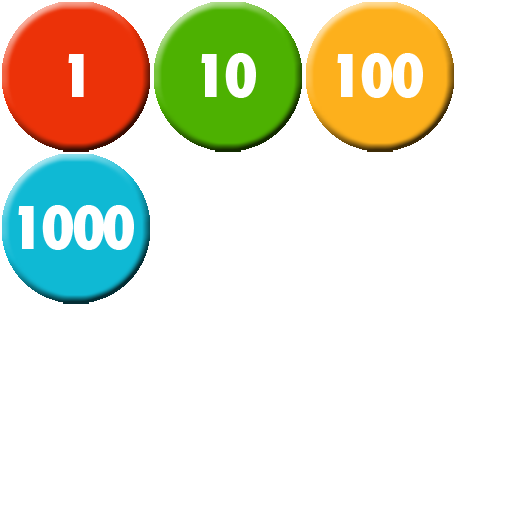
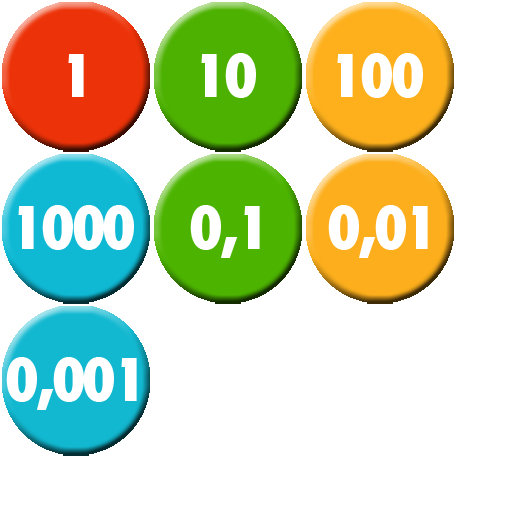
Add files via upload

Changed region(s): [[0.2812, 0.2812, 0.9062, 0.5938], [0.0, 0.5938, 0.3125, 0.9062]]

diff --git a/data.js b/data.js
@@ -1,1 +1,1 @@
-{"project": [null,null,[[0,false,true,true,true,false,false,false,false,false],[1,true,false,false,false,false,false,false,false,false],[2,false,true,true,true,true,true,true,true,false],[3,true,false,false,false,false,false,false,false,false],[4,false,true,true,false,true,true,true,true,true],[5,false,true,true,true,true,true,true,true,false],[6,false,true,true,true,false,false,false,false,false]],[["t0",5,false,[644382659856269],1,0,null,[["Default",5,false,1,0,false,911871144314915,[["images/pin-sheet0.png",28463,1,1,150,150,1,0.5,0.5,[],[-0.3533329963684082,-0.3533329963684082,0,-0.4933333396911621,0.3533329963684082,-0.3533329963684082,0.4933329820632935,0,0.3533329963684082,0.3533329963684082,0,0.5,-0.3533329963684082,0.3533329963684082,-0.4933333396911621,0],0],["images/pin-sheet0.png",28463,153,1,150,150,1,0.5,0.5,[],[-0.3533329963684082,-0.3533329963684082,0,-0.4933333396911621,0.3533329963684082,-0.3533329963684082,0.4933329820632935,0,0.3533329963684082,0.3533329963684082,0,0.5,-0.3533329963684082,0.3533329963684082,-0.4933333396911621,0],0],["images/pin-sheet0.png",28463,305,1,150,150,1,0.5,0.5,[],[-0.3533329963684082,-0.3533329963684082,0,-0.4933333396911621,0.3533329963684082,-0.3533329963684082,0.4933329820632935,0,0.3533329963684082,0.3533329963684082,0,0.5,-0.3533329963684082,0.3533329963684082,-0.4933333396911621,0],0],["images/pin-sheet0.png",28463,1,153,150,150,1,0.5,0.5,[],[-0.3533329963684082,-0.3533329963684082,0,-0.4933333396911621,0.3533329963684082,-0.3533329963684082,0.4933329820632935,0,0.3533329963684082,0.3533329963684082,0,0.5,-0.3533329963684082,0.3533329963684082,-0.4933333396911621,0],0]]]],[["DragDrop",7,578860099782064]],false,false,861116747323266,[],null],["t1",1,false,[],0,0,null,null,[],false,false,292087745290532,[],null,[]],["t2",5,false,[],0,0,null,[["Default",5,false,1,0,false,428190339307738,[["images/base-sheet0.png",184,0,0,250,21,1,0.5,0.523809552192688,[],[],0]]]],[],false,false,741821680033760,[],null],["t3",5,false,[632192248744076],0,0,null,[["Default",5,false,1,0,false,644652496890301,[["images/pin-sheet0.png",28463,1,1,150,150,1,0.5,0.5,[],[-0.3533329963684082,-0.3533329963684082,0,-0.4933333396911621,0.3533329963684082,-0.3533329963684082,0.4933329820632935,0,0.3533329963684082,0.3533329963684082,0,0.5,-0.3533329963684082,0.3533329963684082,-0.4933333396911621,0],0],["images/pin-sheet0.png",28463,153,1,150,150,1,0.5,0.5,[],[-0.3533329963684082,-0.3533329963684082,0,-0.4933333396911621,0.3533329963684082,-0.3533329963684082,0.4933329820632935,0,0.3533329963684082,0.3533329963684082,0,0.5,-0.3533329963684082,0.3533329963684082,-0.4933333396911621,0],0],["images/pin-sheet0.png",28463,305,1,150,150,1,0.5,0.5,[],[-0.3533329963684082,-0.3533329963684082,0,-0.4933333396911621,0.3533329963684082,-0.3533329963684082,0.4933329820632935,0,0.3533329963684082,0.3533329963684082,0,0.5,-0.3533329963684082,0.3533329963684082,-0.4933333396911621,0],0],["images/pin-sheet0.png",28463,1,153,150,150,1,0.5,0.5,[],[-0.3533329963684082,-0.3533329963684082,0,-0.4933333396911621,0.3533329963684082,-0.3533329963684082,0.4933329820632935,0,0.3533329963684082,0.3533329963684082,0,0.5,-0.3533329963684082,0.3533329963684082,-0.4933333396911621,0],0]]]],[],false,false,182497139481256,[],null],["t4",3,false,[],0,0,null,null,[],false,false,698995464938124,[],null,[1]],["t5",4,false,[],0,0,["images/particles.png",226,0],null,[],false,false,483021725840676,[],null],["t6",5,false,[],0,0,null,[["Default",5,false,1,0,false,848638669185510,[["images/sprite-sheet0.png",116,0,0,94,238,1,1.297872304916382,0.5084033608436585,[],[],1]]]],[],false,false,383891707760628,[],null],["t7",6,false,[],0,0,null,null,[],false,false,428799213916837,[],null],["t8",0,false,[],0,0,null,null,[],false,false,669017938407102,[],null],["t9",2,false,[],1,0,null,null,[["DragDrop",7,897159645757813]],false,false,883067694999877,[],null],["t10",5,false,[],0,0,null,[["Default",5,false,1,0,false,693317849428490,[["images/sprite2-sheet0.png",112,0,0,3,45,1,6,2.799999952316284,[],[],0]]]],[],false,false,427905328455323,[],null]],[],[["Layout 1",854,480,false,"Event sheet 1",222364562494749,[["Layer 0",0,578104952276455,true,[255,255,255],false,1,1,1,false,false,1,0,0,[[[233,731,0,128,128,0,0,1,0,0.5,0,0,[]],5,8,[],[],[20,360,1,300,15,100,0,0,0,0,0,0,-150,0,0,800,0,0,0.5]],[[423,80.31913757324219,0,63,860,0,1.570796370506287,1,1.297872304916382,0.5084033608436585,0,0,[]],6,9,[],[],[0,"Default",0,1]],[[427.5,474,0,875,21,0,0,1,0.5,0.523809552192688,0,0,[]],2,2,[],[],[0,"Default",0,1]],[[615,436,0,150,22,0,0,1,0,0,0,0,[]],7,10,[],[],["","","",1,1,0,0,0,1,""]],[[771,434,0,72,24,0,0,1,0,0,0,0,[]],8,11,[],[],[0,"OK","",1,1,1,"",0]],[[421.5,559.5,0,343,75,0,0,1,0.5,0.5,0,0,[]],9,12,[],[[0,1]],["Text",0,"bold 36pt Arial","rgb(0,0,0)",1,1,4,0,0]]],[]],["Layer 2",1,689472366814451,true,[255,255,255],true,1,1,1,false,false,1,0,0,[[[196,1159,0,3,390,0,0,1,6,2.799999952316284,0,0,[]],10,13,[],[],[0,"Default",0,1]],[[371,64,0,3,390,0,0,1,6,2.799999952316284,0,0,[]],10,14,[],[],[0,"Default",0,1]],[[380,245,0,3,390,0,0,1,6,2.799999952316284,0,0,[]],10,15,[],[],[0,"Default",0,1]],[[407,270,0,3,390,0,0,1,6,2.799999952316284,0,0,[]],10,16,[],[],[0,"Default",0,1]],[[363,148,0,3,390,0,0,1,6,2.799999952316284,0,0,[]],10,17,[],[],[0,"Default",0,1]],[[411,1162,0,3,390,0,0,1,6,2.799999952316284,0,0,[]],10,18,[],[],[0,"Default",0,1]],[[645,1160,0,3,390,0,0,1,6,2.799999952316284,0,0,[]],10,19,[],[],[0,"Default",0,1]]],[]],["Layer 1",2,750380209258880,true,[255,255,255],true,1,1,1,false,false,1,0,0,[[[87,586,0,150,150,0,0,1,0.5,0.5,0,0,[]],0,0,[[0]],[[0,1]],[0,"Default",0,1]],[[724,29,0,50.75431060791016,50.75431060791016,0,0,1,0.5,0.5,0,0,[]],3,3,[[0]],[],[0,"Default",0,1]],[[499,29,0,50.75431060791016,50.75431060791016,0,0,1,0.5,0.5,0,0,[]],3,4,[[1]],[],[0,"Default",1,1]],[[284,28,0,50.75431060791016,50.75431060791016,0,0,1,0.5,0.5,0,0,[]],3,5,[[2]],[],[0,"Default",2,1]],[[92,29,0,50.75431060791016,50.75431060791016,0,0,1,0.5,0.5,0,0,[]],3,6,[[3]],[],[0,"Default",3,1]]],[]]],[],[]]],[["Event sheet 1",[[1,"inc",0,75,false,false,480072342331899,false],[1,"py",0,100,false,false,281201246726940,false],[1,"px",0,400,false,false,111233718439676,false],[0,null,false,null,746187562910654,[[-1,8,null,1,false,false,false,579789453030757,false]],[[3,9,null,854187559882076,false]]],[0,null,false,null,305910840080740,[[1,10,null,1,false,false,false,884794183998346,false,[[9,49]]]],[[-1,11,null,782699677731181,false,[[4,0],[5,[0,1]],[0,[23,"px"]],[0,[23,"py"]]]],[0,12,null,748778087565367,false,[[0,[1,0.5]]]],[0,9,null,319523093840713,false],[0,13,null,147621369360549,false,[[0,[0,0]]]],[-1,14,null,405604923511658,false,[[11,"py"],[7,[4,[23,"py"],[23,"inc"]]]]]]],[0,null,false,null,305116728605061,[[1,10,null,1,false,false,false,858277674687009,false,[[9,50]]]],[[-1,11,null,738967561313364,false,[[4,0],[5,[0,1]],[0,[23,"px"]],[0,[23,"py"]]]],[0,12,null,585888803841106,false,[[0,[1,0.5]]]],[0,9,null,920925629175796,false],[0,13,null,889219640164376,false,[[0,[0,1]]]],[-1,14,null,807351918061901,false,[[11,"py"],[7,[4,[23,"py"],[23,"inc"]]]]]]],[0,null,false,null,342234349138724,[[1,10,null,1,false,false,false,785418455827291,false,[[9,51]]]],[[-1,11,null,722172501859807,false,[[4,0],[5,[0,1]],[0,[23,"px"]],[0,[23,"py"]]]],[0,12,null,470171881342534,false,[[0,[1,0.5]]]],[0,9,null,126541316919008,false],[0,13,null,263792452516429,false,[[0,[0,2]]]],[-1,14,null,902807435480102,false,[[11,"py"],[7,[4,[23,"py"],[23,"inc"]]]]]]],[0,null,false,null,953869717273976,[[1,10,null,1,false,false,false,852845537536902,false,[[9,52]]]],[[-1,11,null,430040566835191,false,[[4,0],[5,[0,1]],[0,[23,"px"]],[0,[23,"py"]]]],[0,12,null,657961935267857,false,[[0,[1,0.5]]]],[0,9,null,924313412568258,false],[0,13,null,172110008348962,false,[[0,[0,3]]]],[-1,14,null,262442932410086,false,[[11,"py"],[7,[4,[23,"py"],[23,"inc"]]]]]]],[0,null,false,null,195581380856521,[[0,15,"DragDrop",1,false,false,false,451384350168511,false]],[[-1,14,null,978796043954594,false,[[11,"px"],[7,[20,0,16,false,null]]]],[-1,14,null,959403749462215,false,[[11,"py"],[7,[4,[20,0,17,false,null],[23,"inc"]]]]]]],[0,null,false,null,585789080994055,[[1,10,null,1,false,false,false,961656640352232,false,[[9,27]]]],[[-1,18,null,971690694566959,false]]],[0,null,false,null,200520648004140,[[0,19,null,0,false,false,true,739482570705831,false,[[4,2]]]],[[0,20,null,755990501114015,false],[0,21,null,922579971799122,false,[[4,5],[5,[0,0]],[7,[0,0]]]]]],[0,null,false,null,413755957735950,[[4,22,null,1,false,false,false,152951193907745,false,[[4,3]]]],[[-1,11,null,460226112207825,false,[[4,0],[5,[0,1]],[0,[23,"px"]],[0,[23,"py"]]]],[0,12,null,678653355344040,false,[[0,[1,0.5]]]],[0,9,null,312313856179144,false],[0,13,null,395210593895914,false,[[0,[21,3,false,null,0]]]],[-1,14,null,239464276551210,false,[[11,"py"],[7,[4,[23,"py"],[23,"inc"]]]]]]],[0,null,false,null,907593584464129,[[8,23,null,1,false,false,false,802546425472956,false]],[[-1,11,null,755786716646057,false,[[4,9],[5,[0,0]],[0,[0,400]],[0,[0,350]]]],[9,24,null,712175506529974,false,[[7,[20,7,25,true,null]]]]]],[0,null,false,null,324737361356182,[[2,19,null,0,false,false,true,248713019684820,false,[[4,9]]]],[[9,26,null,363566885807936,false]]]]]],[],"media/",false,854,480,4,true,true,true,"1.0.0.0",true,false,4,0,20,false,true,1,true,"NumberPins",0,[]]}
+{"project": [null,"Layout 0",[[0,false,true,true,true,false,false,false,false,false],[1,true,false,false,false,false,false,false,false,false],[2,false,true,true,true,false,false,false,false,false],[3,false,true,true,true,true,true,true,true,false],[4,true,false,false,false,false,false,false,false,false],[5,false,true,true,false,true,true,true,true,true],[6,false,true,true,true,true,true,true,true,false]],[["t0",3,false,[644382659856269],1,0,null,[["Default",5,false,1,0,false,911871144314915,[["images/pin-sheet0.png",48471,1,1,150,150,1,0.5,0.5,[],[-0.3533329963684082,-0.3533329963684082,0,-0.4933333396911621,0.3533329963684082,-0.3533329963684082,0.4933329820632935,0,0.3533329963684082,0.3533329963684082,0,0.5,-0.3533329963684082,0.3533329963684082,-0.4933333396911621,0],0],["images/pin-sheet0.png",48471,153,1,150,150,1,0.5,0.5,[],[-0.3533329963684082,-0.3533329963684082,0,-0.4933333396911621,0.3533329963684082,-0.3533329963684082,0.4933329820632935,0,0.3533329963684082,0.3533329963684082,0,0.5,-0.3533329963684082,0.3533329963684082,-0.4933333396911621,0],0],["images/pin-sheet0.png",48471,305,1,150,150,1,0.5,0.5,[],[-0.3533329963684082,-0.3533329963684082,0,-0.4933333396911621,0.3533329963684082,-0.3533329963684082,0.4933329820632935,0,0.3533329963684082,0.3533329963684082,0,0.5,-0.3533329963684082,0.3533329963684082,-0.4933333396911621,0],0],["images/pin-sheet0.png",48471,1,153,150,150,1,0.5,0.5,[],[-0.3533329963684082,-0.3533329963684082,0,-0.4933333396911621,0.3533329963684082,-0.3533329963684082,0.4933329820632935,0,0.3533329963684082,0.3533329963684082,0,0.5,-0.3533329963684082,0.3533329963684082,-0.4933333396911621,0],0],["images/pin-sheet0.png",48471,153,153,150,150,1,0.5,0.5,[],[-0.3533329963684082,-0.3533329963684082,0,-0.4933333396911621,0.3533329963684082,-0.3533329963684082,0.4933329820632935,0,0.3533329963684082,0.3533329963684082,0,0.5,-0.3533329963684082,0.3533329963684082,-0.4933333396911621,0],0],["images/pin-sheet0.png",48471,305,153,150,150,1,0.5,0.5,[],[-0.3533329963684082,-0.3533329963684082,0,-0.4933333396911621,0.3533329963684082,-0.3533329963684082,0.4933329820632935,0,0.3533329963684082,0.3533329963684082,0,0.5,-0.3533329963684082,0.3533329963684082,-0.4933333396911621,0],0],["images/pin-sheet0.png",48471,1,305,150,150,1,0.5,0.5,[],[-0.3533329963684082,-0.3533329963684082,0,-0.4933333396911621,0.3533329963684082,-0.3533329963684082,0.4933329820632935,0,0.3533329963684082,0.3533329963684082,0,0.5,-0.3533329963684082,0.3533329963684082,-0.4933333396911621,0],0]]]],[["DragDrop",7,578860099782064]],false,false,861116747323266,[],null],["t1",1,false,[],0,0,null,null,[],false,false,292087745290532,[],null,[]],["t2",3,false,[],0,0,null,[["Default",5,false,1,0,false,428190339307738,[["images/base-sheet0.png",184,0,0,250,21,1,0.5,0.523809552192688,[],[],0]]]],[],false,false,741821680033760,[],null],["t3",3,false,[632192248744076],0,0,null,[["Default",5,false,1,0,false,644652496890301,[["images/pin-sheet0.png",48471,1,1,150,150,1,0.5,0.5,[],[-0.3533329963684082,-0.3533329963684082,0,-0.4933333396911621,0.3533329963684082,-0.3533329963684082,0.4933329820632935,0,0.3533329963684082,0.3533329963684082,0,0.5,-0.3533329963684082,0.3533329963684082,-0.4933333396911621,0],0],["images/pin-sheet0.png",48471,153,1,150,150,1,0.5,0.5,[],[-0.3533329963684082,-0.3533329963684082,0,-0.4933333396911621,0.3533329963684082,-0.3533329963684082,0.4933329820632935,0,0.3533329963684082,0.3533329963684082,0,0.5,-0.3533329963684082,0.3533329963684082,-0.4933333396911621,0],0],["images/pin-sheet0.png",48471,305,1,150,150,1,0.5,0.5,[],[-0.3533329963684082,-0.3533329963684082,0,-0.4933333396911621,0.3533329963684082,-0.3533329963684082,0.4933329820632935,0,0.3533329963684082,0.3533329963684082,0,0.5,-0.3533329963684082,0.3533329963684082,-0.4933333396911621,0],0],["images/pin-sheet0.png",48471,1,153,150,150,1,0.5,0.5,[],[-0.3533329963684082,-0.3533329963684082,0,-0.4933333396911621,0.3533329963684082,-0.3533329963684082,0.4933329820632935,0,0.3533329963684082,0.3533329963684082,0,0.5,-0.3533329963684082,0.3533329963684082,-0.4933333396911621,0],0],["images/pin-sheet0.png",48471,153,153,150,150,1,0.5,0.5,[],[-0.3533329963684082,-0.3533329963684082,0,-0.4933333396911621,0.3533329963684082,-0.3533329963684082,0.4933329820632935,0,0.3533329963684082,0.3533329963684082,0,0.5,-0.3533329963684082,0.3533329963684082,-0.4933333396911621,0],0],["images/pin-sheet0.png",48471,305,153,150,150,1,0.5,0.5,[],[-0.3533329963684082,-0.3533329963684082,0,-0.4933333396911621,0.3533329963684082,-0.3533329963684082,0.4933329820632935,0,0.3533329963684082,0.3533329963684082,0,0.5,-0.3533329963684082,0.3533329963684082,-0.4933333396911621,0],0],["images/pin-sheet0.png",48471,1,305,150,150,1,0.5,0.5,[],[-0.3533329963684082,-0.3533329963684082,0,-0.4933333396911621,0.3533329963684082,-0.3533329963684082,0.4933329820632935,0,0.3533329963684082,0.3533329963684082,0,0.5,-0.3533329963684082,0.3533329963684082,-0.4933333396911621,0],0]]]],[],false,false,182497139481256,[],null],["t4",4,false,[],0,0,null,null,[],false,false,698995464938124,[],null,[1]],["t5",5,false,[],0,0,["images/particles.png",226,0],null,[],false,false,483021725840676,[],null],["t6",3,false,[],0,0,null,[["Default",5,false,1,0,false,848638669185510,[["images/sprite-sheet0.png",116,0,0,94,238,1,1.297872304916382,0.5084033608436585,[],[],1]]]],[],false,false,383891707760628,[],null],["t7",2,false,[],0,0,null,null,[],false,false,428799213916837,[],null],["t8",0,false,[],0,0,null,null,[],false,false,669017938407102,[],null],["t9",6,false,[],1,0,null,null,[["DragDrop",7,897159645757813]],false,false,883067694999877,[],null],["t10",6,false,[],0,0,null,null,[],false,false,300781632412065,[],null],["t11",6,false,[],0,0,null,null,[],false,false,348532356729456,[],null],["t12",3,false,[],0,0,null,[["Default",5,false,1,0,false,351542884273668,[["images/p-sheet0.png",3046,0,0,322,62,1,0.5,0.5,[],[-0.4751552939414978,-0.3709679841995239,0,-0.4193547964096069,0.4782609939575195,-0.3870970010757446,0.49378901720047,0,0.4782609939575195,0.3870970010757446,0,0.4032260179519653,-0.4720497131347656,0.354839026927948,-0.484472006559372,0],0]]]],[],false,false,235438918730304,[],null],["t13",3,false,[],0,0,null,[["Default",5,false,1,0,false,329956956013593,[["images/p2-sheet0.png",3252,0,0,322,62,1,0.5,0.5,[],[-0.4751552939414978,-0.3709679841995239,0,-0.4193547964096069,0.4782609939575195,-0.3870970010757446,0.49378901720047,0,0.4782609939575195,0.3870970010757446,0,0.4032260179519653,-0.4720497131347656,0.354839026927948,-0.484472006559372,0],0]]]],[],false,false,516102538277509,[],null],["t14",3,false,[],0,0,null,[["Default",5,false,1,0,false,464193127068901,[["images/pin2-sheet0.png",2699,0,0,488,102,1,0.5,0.5,[],[-0.4651638865470886,-0.3333330154418945,0,-0.3921570181846619,0.4446719884872437,-0.2352940142154694,0.467212975025177,0,0.4446719884872437,0.235293984413147,-0.4446721076965332,0.235293984413147,-0.4651638865470886,0],0]]]],[],false,false,922161805479174,[],null],["t15",3,false,[],0,0,null,[["Default",5,false,1,0,false,578492480866114,[["images/back-sheet0.png",571,0,0,103,48,1,0.5048543810844421,0.5,[],[-0.4077669978141785,-0.2916669845581055,-0.009708374738693237,-0.1666670143604279,0.3398056030273438,-0.1666670143604279,0.3883495926856995,0.2708330154418945,-0.009708374738693237,0.3333330154418945,-0.4077669978141785,0.2916669845581055],0]]]],[],false,false,490636820637942,[],null]],[],[["Layout 1",854,480,false,"Event sheet 1",222364562494749,[["Layer 0",0,578104952276455,true,[255,255,255],false,1,1,1,false,false,1,0,0,[[[233,731,0,128,128,0,0,1,0,0.5,0,0,[]],5,8,[],[],[20,360,1,300,15,100,0,0,0,0,0,0,-150,0,0,800,0,0,0.5]],[[423,80.31913757324219,0,63,860,0,1.570796370506287,1,1.297872304916382,0.5084033608436585,0,0,[]],6,9,[],[],[0,"Default",0,1]],[[427.5,474,0,875,21,0,0,1,0.5,0.523809552192688,0,0,[]],2,2,[],[],[0,"Default",0,1]],[[615,436,0,150,22,0,0,1,0,0,0,0,[]],7,10,[],[],["","","",1,1,0,0,0,1,""]],[[771,434,0,72,24,0,0,1,0,0,0,0,[]],8,11,[],[],[0,"OK","",1,1,1,"",0]],[[421.5,559.5,0,343,75,0,0,1,0.5,0.5,0,0,[]],9,12,[],[[0,1]],["Text",0,"bold 36pt Arial","rgb(0,0,0)",1,1,4,0,0]],[[41,441,0,70.55730438232422,32.88107299804688,0,0,1,0.5048543810844421,0.5,0,0,[]],15,30,[],[],[0,"Default",0,1]]],[]],["Layer 1",1,750380209258880,true,[255,255,255],true,1,1,1,false,false,1,0,0,[[[87,586,0,150,150,0,0,1,0.5,0.5,0,0,[]],0,0,[[0]],[[0,1]],[0,"Default",0,1]],[[710,29,0,50.75431060791016,50.75431060791016,0,0,1,0.5,0.5,0,0,[]],3,3,[[0]],[],[0,"Default",0,1]],[[484,29,0,50.75431060791016,50.75431060791016,0,0,1,0.5,0.5,0,0,[]],3,4,[[1]],[],[0,"Default",1,1]],[[284,28,0,50.75431060791016,50.75431060791016,0,0,1,0.5,0.5,0,0,[]],3,5,[[2]],[],[0,"Default",2,1]],[[92,29,0,50.75431060791016,50.75431060791016,0,0,1,0.5,0.5,0,0,[]],3,6,[[3]],[],[0,"Default",3,1]]],[]]],[],[]],["Layout 2",854,480,false,"Event sheet 1",157701743489815,[["Layer 0",0,996414164033066,true,[255,255,255],false,1,1,1,false,false,1,0,0,[[[233,731,0,128,128,0,0,1,0,0.5,0,0,[]],5,13,[],[],[20,360,1,300,15,100,0,0,0,0,0,0,-150,0,0,800,0,0,0.5]],[[423,80.31913757324219,0,63,860,0,1.570796370506287,1,1.297872304916382,0.5084033608436585,0,0,[]],6,14,[],[],[0,"Default",0,1]],[[427.5,474,0,875,21,0,0,1,0.5,0.523809552192688,0,0,[]],2,15,[],[],[0,"Default",0,1]],[[615,436,0,150,22,0,0,1,0,0,0,0,[]],7,16,[],[],["","","",1,1,0,0,0,1,""]],[[771,434,0,72,24,0,0,1,0,0,0,0,[]],8,17,[],[],[0,"OK","",1,1,1,"",0]],[[421.5,559.5,0,343,75,0,0,1,0.5,0.5,0,0,[]],9,18,[],[[0,1]],["Text",0,"bold 36pt Arial","rgb(0,0,0)",1,1,4,0,0]],[[39.62116241455078,439.5594482421875,0,70.55730438232422,32.88107299804688,0,0,1,0.5048543810844421,0.5,0,0,[]],15,29,[],[],[0,"Default",0,1]]],[]],["Layer 1",1,595228016832452,true,[255,255,255],true,1,1,1,false,false,1,0,0,[[[87,586,0,150,150,0,0,1,0.5,0.5,0,0,[]],0,19,[[0]],[[0,1]],[0,"Default",0,1]],[[103,30,0,50.75431060791016,50.75431060791016,0,0,1,0.5,0.5,0,0,[]],3,20,[[0]],[],[0,"Default",0,1]],[[300,30,0,50.75431060791016,50.75431060791016,0,0,1,0.5,0.5,0,0,[]],3,21,[[4]],[],[0,"Default",4,1]],[[518,30,0,50.75431060791016,50.75431060791016,0,0,1,0.5,0.5,0,0,[]],3,22,[[5]],[],[0,"Default",5,1]],[[728,29,0,50.75431060791016,50.75431060791016,0,0,1,0.5,0.5,0,0,[]],3,23,[[6]],[],[0,"Default",6,1]]],[]]],[],[]],["Layout 0",854,480,false,"Event sheet 0",891715515202026,[["Layer 0",0,589317511415200,true,[204,255,255],false,1,1,1,false,false,1,0,0,[[[281,516,0,220,45,0,0,1,0,0,0,0,[]],10,24,[],[],["Bilangan 1 - 1000",0,"bold 22pt Arial Narrow","rgb(0,0,0)",1,1,0,0,0]],[[284,554,0,220,45,0,0,1,0,0,0,0,[]],11,26,[],[],["Bilangan 0,001 - 1",0,"bold 22pt Arial Narrow","rgb(0,0,0)",1,1,0,0,0]],[[425,236,0,322,62,0,0,1,0.5,0.5,0,0,[]],12,25,[],[],[0,"Default",0,1]],[[426,300,0,322,62,0,0,1,0.5,0.5,0,0,[]],13,27,[],[],[0,"Default",0,1]],[[439,148,0,488,102,0,0,1,0.5,0.5,0,0,[]],14,28,[],[],[0,"Default",0,1]],[[437,8,0,875,21,0,0,1,0.5,0.523809552192688,0,0,[]],2,31,[],[],[0,"Default",0,1]],[[437,481,0,875,21,0,0,1,0.5,0.523809552192688,0,0,[]],2,32,[],[],[0,"Default",0,1]]],[]]],[],[]]],[["Event sheet 1",[[1,"inc",0,75,false,false,480072342331899,false],[1,"py",0,100,false,false,281201246726940,false],[1,"px",0,400,false,false,111233718439676,false],[0,null,false,null,746187562910654,[[-1,8,null,1,false,false,false,579789453030757,false]],[[3,9,null,854187559882076,false]]],[0,null,false,null,305910840080740,[[1,10,null,1,false,false,false,884794183998346,false,[[9,49]]]],[[-1,11,null,782699677731181,false,[[4,0],[5,[0,1]],[0,[23,"px"]],[0,[23,"py"]]]],[0,12,null,748778087565367,false,[[0,[1,0.5]]]],[0,9,null,319523093840713,false],[0,13,null,147621369360549,false,[[0,[0,0]]]],[-1,14,null,405604923511658,false,[[11,"py"],[7,[4,[23,"py"],[23,"inc"]]]]]]],[0,null,false,null,305116728605061,[[1,10,null,1,false,false,false,858277674687009,false,[[9,50]]]],[[-1,11,null,738967561313364,false,[[4,0],[5,[0,1]],[0,[23,"px"]],[0,[23,"py"]]]],[0,12,null,585888803841106,false,[[0,[1,0.5]]]],[0,9,null,920925629175796,false],[0,13,null,889219640164376,false,[[0,[0,1]]]],[-1,14,null,807351918061901,false,[[11,"py"],[7,[4,[23,"py"],[23,"inc"]]]]]]],[0,null,false,null,342234349138724,[[1,10,null,1,false,false,false,785418455827291,false,[[9,51]]]],[[-1,11,null,722172501859807,false,[[4,0],[5,[0,1]],[0,[23,"px"]],[0,[23,"py"]]]],[0,12,null,470171881342534,false,[[0,[1,0.5]]]],[0,9,null,126541316919008,false],[0,13,null,263792452516429,false,[[0,[0,2]]]],[-1,14,null,902807435480102,false,[[11,"py"],[7,[4,[23,"py"],[23,"inc"]]]]]]],[0,null,false,null,953869717273976,[[1,10,null,1,false,false,false,852845537536902,false,[[9,52]]]],[[-1,11,null,430040566835191,false,[[4,0],[5,[0,1]],[0,[23,"px"]],[0,[23,"py"]]]],[0,12,null,657961935267857,false,[[0,[1,0.5]]]],[0,9,null,924313412568258,false],[0,13,null,172110008348962,false,[[0,[0,3]]]],[-1,14,null,262442932410086,false,[[11,"py"],[7,[4,[23,"py"],[23,"inc"]]]]]]],[0,null,false,null,195581380856521,[[0,15,"DragDrop",1,false,false,false,451384350168511,false]],[[-1,14,null,978796043954594,false,[[11,"px"],[7,[20,0,16,false,null]]]],[-1,14,null,959403749462215,false,[[11,"py"],[7,[4,[20,0,17,false,null],[23,"inc"]]]]]]],[0,null,false,null,585789080994055,[[1,10,null,1,false,false,false,961656640352232,false,[[9,27]]]],[[-1,18,null,971690694566959,false]]],[0,null,false,null,200520648004140,[[0,19,null,0,false,false,true,739482570705831,false,[[4,2]]]],[[0,20,null,755990501114015,false],[0,21,null,922579971799122,false,[[4,5],[5,[0,0]],[7,[0,0]]]]]],[0,null,false,null,413755957735950,[[4,22,null,1,false,false,false,152951193907745,false,[[4,3]]]],[[-1,11,null,460226112207825,false,[[4,0],[5,[0,1]],[0,[23,"px"]],[0,[23,"py"]]]],[0,12,null,678653355344040,false,[[0,[1,0.5]]]],[0,9,null,312313856179144,false],[0,13,null,395210593895914,false,[[0,[21,3,false,null,0]]]],[-1,14,null,239464276551210,false,[[11,"py"],[7,[4,[23,"py"],[23,"inc"]]]]]]],[0,null,false,null,907593584464129,[[8,23,null,1,false,false,false,802546425472956,false]],[[-1,11,null,755786716646057,false,[[4,9],[5,[0,0]],[0,[0,400]],[0,[0,350]]]],[9,24,null,712175506529974,false,[[7,[20,7,25,true,null]]]]]],[0,null,false,null,324737361356182,[[2,19,null,0,false,false,true,248713019684820,false,[[4,9]]]],[[9,26,null,363566885807936,false]]],[0,null,false,null,536620614994605,[[1,10,null,1,false,false,false,223464767099930,false,[[9,27]]]],[[-1,27,null,933427608333229,false,[[6,"Layout 0"]]]]],[0,null,false,null,198725043997796,[[4,22,null,1,false,false,false,940692227515341,false,[[4,15]]]],[[-1,27,null,256978734153836,false,[[6,"Layout 0"]]]]]]],["Event sheet 2",[[0,null,false,null,128641442663670,[[4,22,null,1,false,false,false,533013513520806,false,[[4,10]]]],[[-1,27,null,718537843545618,false,[[6,"Layout 1"]]]]],[0,null,false,null,790421699272082,[[4,22,null,1,false,false,false,664712387877111,false,[[4,11]]]],[[-1,27,null,356057264728268,false,[[6,"Layout 2"]]]]]]],["Event sheet 0",[[0,null,false,null,516696905885716,[[-1,8,null,1,false,false,false,603465274920388,false]],[[3,9,null,889262633528663,false]]],[0,null,false,null,453258893160454,[[4,22,null,1,false,false,false,755084597442150,false,[[4,12]]]],[[-1,27,null,193423774483166,false,[[6,"Layout 1"]]]]],[0,null,false,null,956023505146935,[[4,22,null,1,false,false,false,326913003078213,false,[[4,13]]]],[[-1,27,null,465159876338340,false,[[6,"Layout 2"]]]]]]]],[],"media/",false,854,480,4,true,true,true,"1.0.0.0",true,false,4,0,33,false,true,1,true,"NumberPins",0,[]]}

diff --git a/c2runtime.js b/c2runtime.js
@@ -20134,11 +20134,11 @@ cr.behaviors.DragnDrop = function(runtime)
 cr.getObjectRefTable = function () { return [
 	cr.plugins_.Button,
 	cr.plugins_.Keyboard,
-	cr.plugins_.Text,
+	cr.plugins_.TextBox,
+	cr.plugins_.Sprite,
 	cr.plugins_.Touch,
 	cr.plugins_.Particles,
-	cr.plugins_.Sprite,
-	cr.plugins_.TextBox,
+	cr.plugins_.Text,
 	cr.behaviors.DragnDrop,
 	cr.system_object.prototype.cnds.OnLayoutStart,
 	cr.plugins_.Sprite.prototype.acts.StopAnim,
@@ -20158,5 +20158,6 @@ cr.getObjectRefTable = function () { return [
 	cr.plugins_.Button.prototype.cnds.OnClicked,
 	cr.plugins_.Text.prototype.acts.SetText,
 	cr.plugins_.TextBox.prototype.exps.Text,
-	cr.plugins_.Text.prototype.acts.Destroy
+	cr.plugins_.Text.prototype.acts.Destroy,
+	cr.system_object.prototype.acts.GoToLayout
 ];};

diff --git a/offline.js b/offline.js
@@ -1,5 +1,5 @@
 {
-	"version": 1694157421,
+	"version": 1694998393,
 	"fileList": [
 		"data.js",
 		"c2runtime.js",
@@ -9,6 +9,9 @@
 		"images/base-sheet0.png",
 		"images/particles.png",
 		"images/sprite-sheet0.png",
-		"images/sprite2-sheet0.png"
+		"images/p-sheet0.png",
+		"images/p2-sheet0.png",
+		"images/pin2-sheet0.png",
+		"images/back-sheet0.png"
 	]
 }
